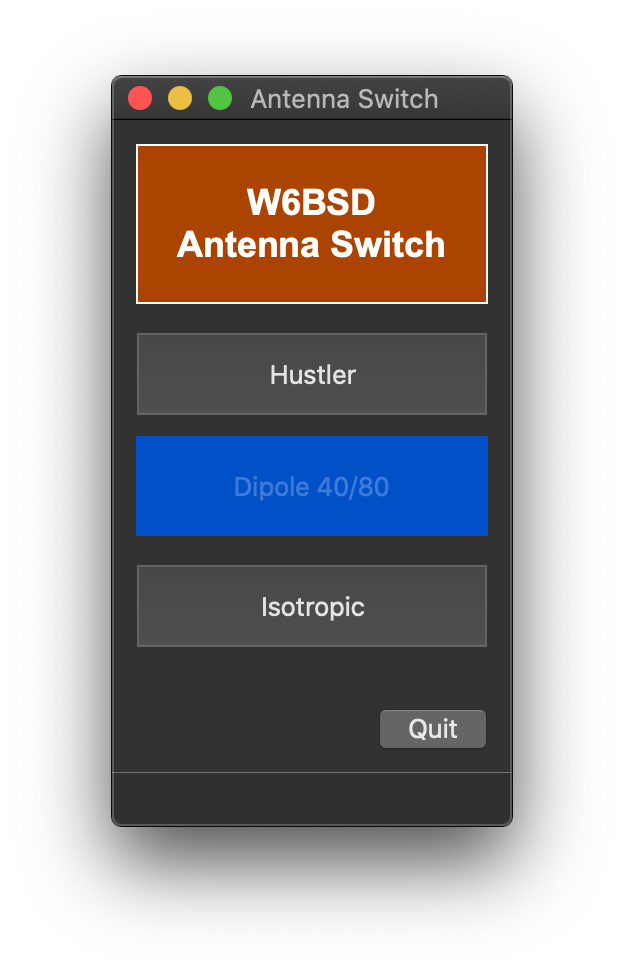
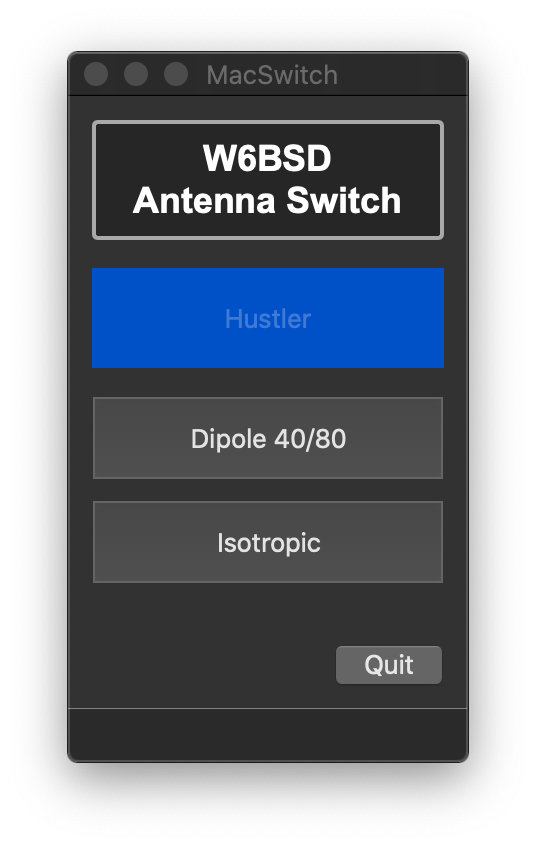
New color scheme

diff --git a/README.md b/README.md
@@ -8,8 +8,7 @@ MacSwitch works with the ham radio HF Remote Antenna Switch. You can find more i
 
 Click on the button to switch between antennas.
 
-![Screenshoot](misc/MacSwitch.png){:height="50%" width="50%"}
-
+![Screenshoot](misc/MacSwitch.png)
 
 
 [1]: https://0x9900.com/remote-controlled-antenna-switch/
